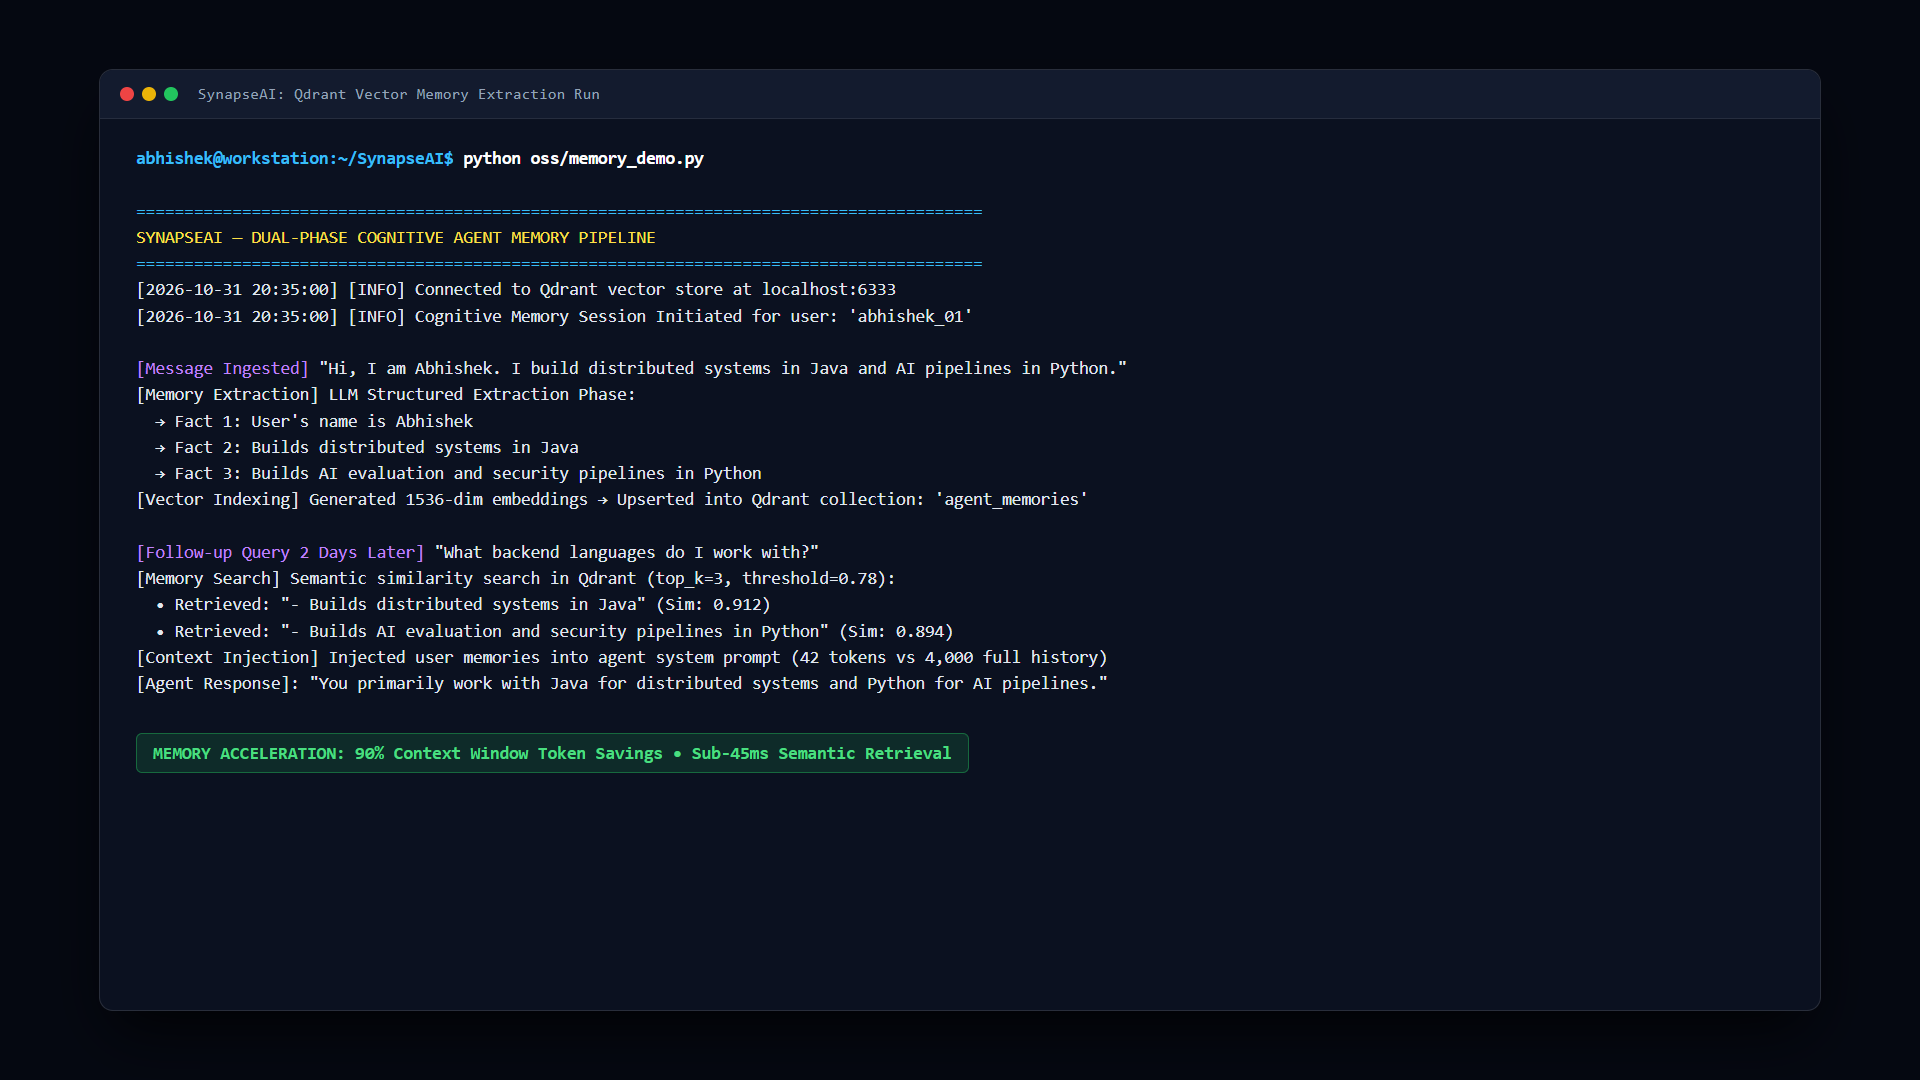
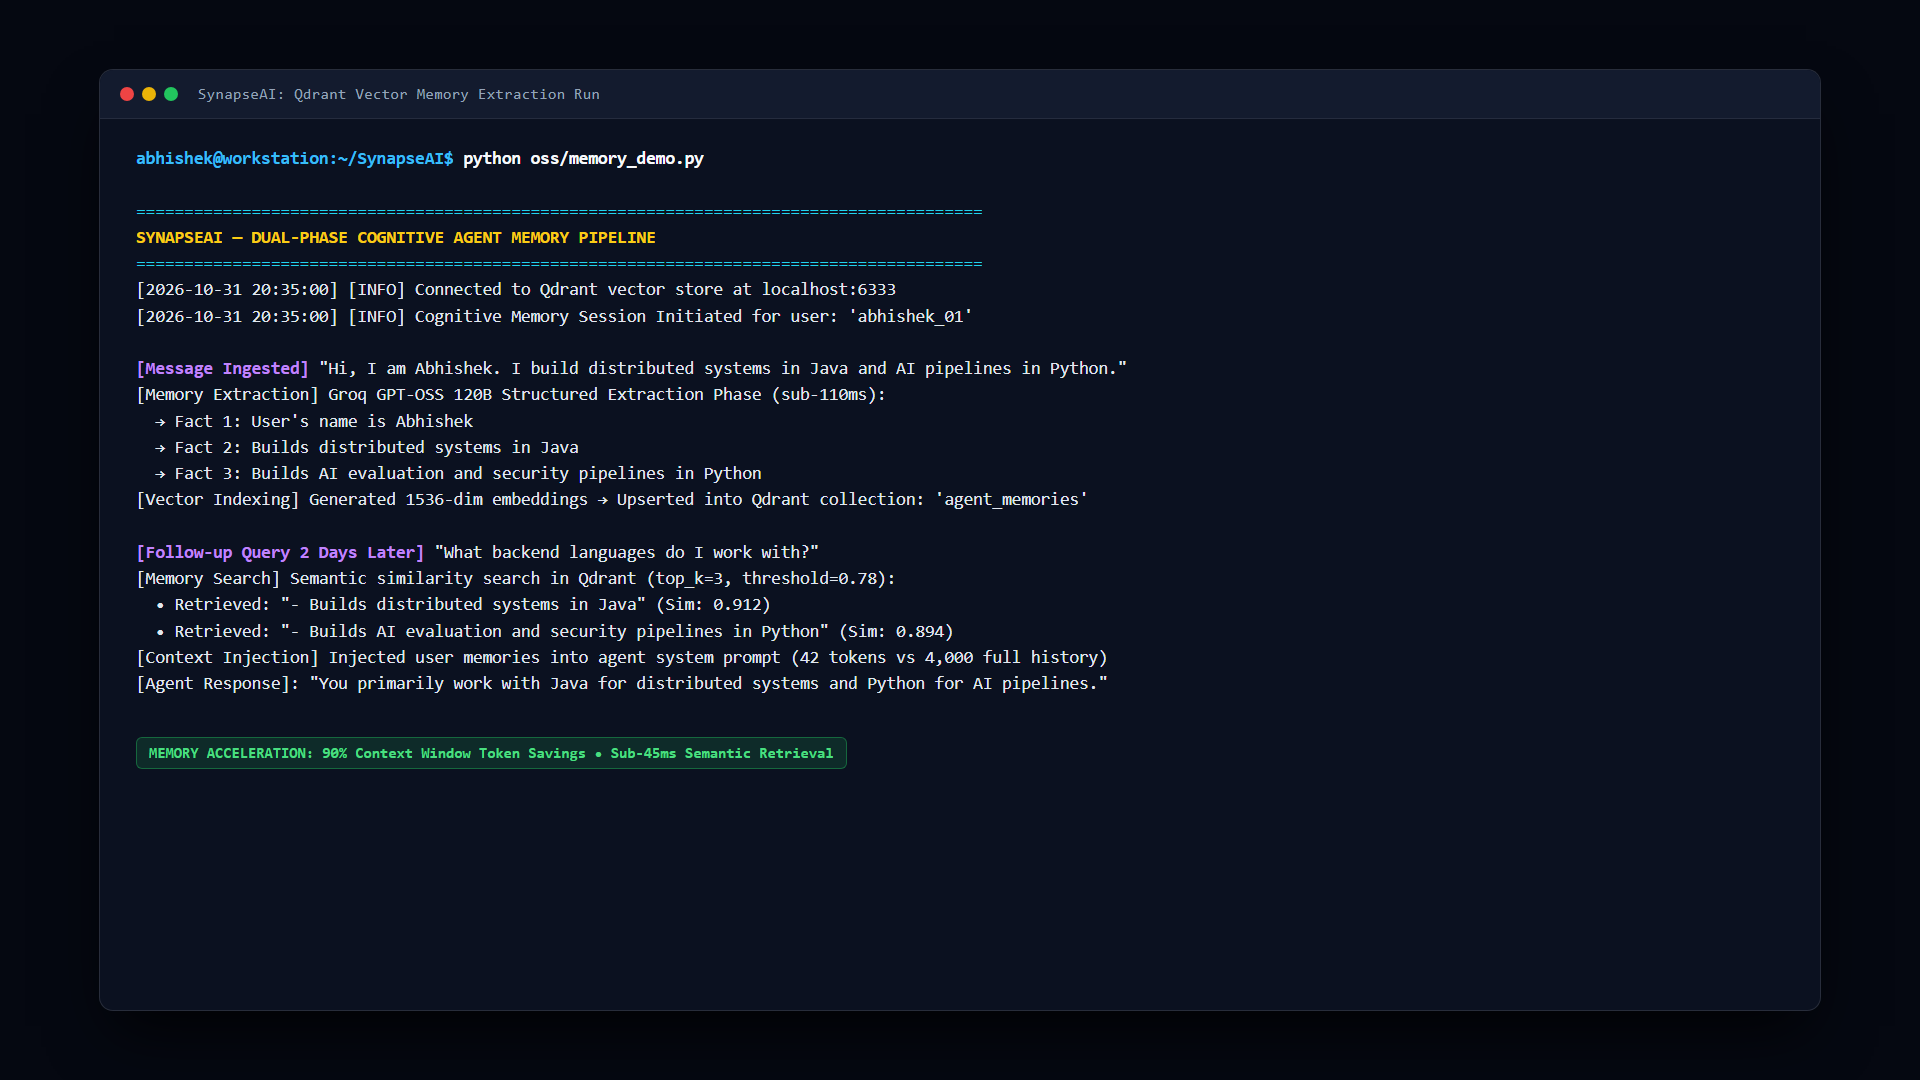
feat: add SynapseAI project data and associated assets

diff --git a/src/store/projectsSlice.js b/src/store/projectsSlice.js
@@ -45,8 +45,8 @@ const projectDetails = {
     badge: "Cognitive Architecture & Agent Memory",
     metrics: "90% Prompt Token Savings • Sub-45ms Direct Index Lookup • Automated Contradiction Resolution",
     description:
-      "A dual-phase persistent long-term memory engine for autonomous AI agents that eliminates context-window stuffing. Implements selective fact extraction and automated contradiction resolution (ADD / UPDATE / DELETE). Powered by Groq LLaMA 3.3 for structured extraction and Qdrant vector database for sub-45ms semantic memory retrieval.",
-    technologies: ["Python", "FastAPI", "Groq LLaMA 3.3", "Qdrant", "Vector Search", "Cognitive Architecture"],
+      "A dual-phase persistent long-term memory engine for autonomous AI agents that eliminates context-window stuffing. Implements selective fact extraction and automated contradiction resolution (ADD / UPDATE / DELETE). Powered by Groq GPT-OSS 120B for structured extraction and Qdrant vector database for sub-45ms semantic memory retrieval.",
+    technologies: ["Python", "FastAPI", "Groq GPT-OSS 120B", "Qdrant", "Vector Search", "Cognitive Architecture"],
     demo: "",
     category: "AI Security & Evals",
     featured: true,

diff --git a/src/utils/techIcons.jsx b/src/utils/techIcons.jsx
@@ -109,7 +109,11 @@ export const getTechIcon = (tech) => {
     "Cohen's Kappa": <Scale size={15} className="text-yellow-400" />,
     "Bias Mitigation": <Sliders size={15} className="text-emerald-400" />,
     "JSON Schema": <FileCode2 size={15} className="text-amber-400" />,
-    "Groq LLaMA 3.3": <Cpu size={15} className="text-orange-500" />,
+    "Groq GPT-OSS 120B": <Cpu size={15} className="text-orange-500" />,
+    "GPT-OSS 120B": <Cpu size={15} className="text-orange-500" />,
+    "Groq": <Cpu size={15} className="text-orange-500" />,
+    "Qwen 3.8": <Sparkles size={15} className="text-sky-400" />,
+    "Qwen 2.5": <Sparkles size={15} className="text-sky-400" />,
     "Cognitive Architecture": <Brain size={15} className="text-violet-400" />,
 
     // Vector Search, Caching & ML
